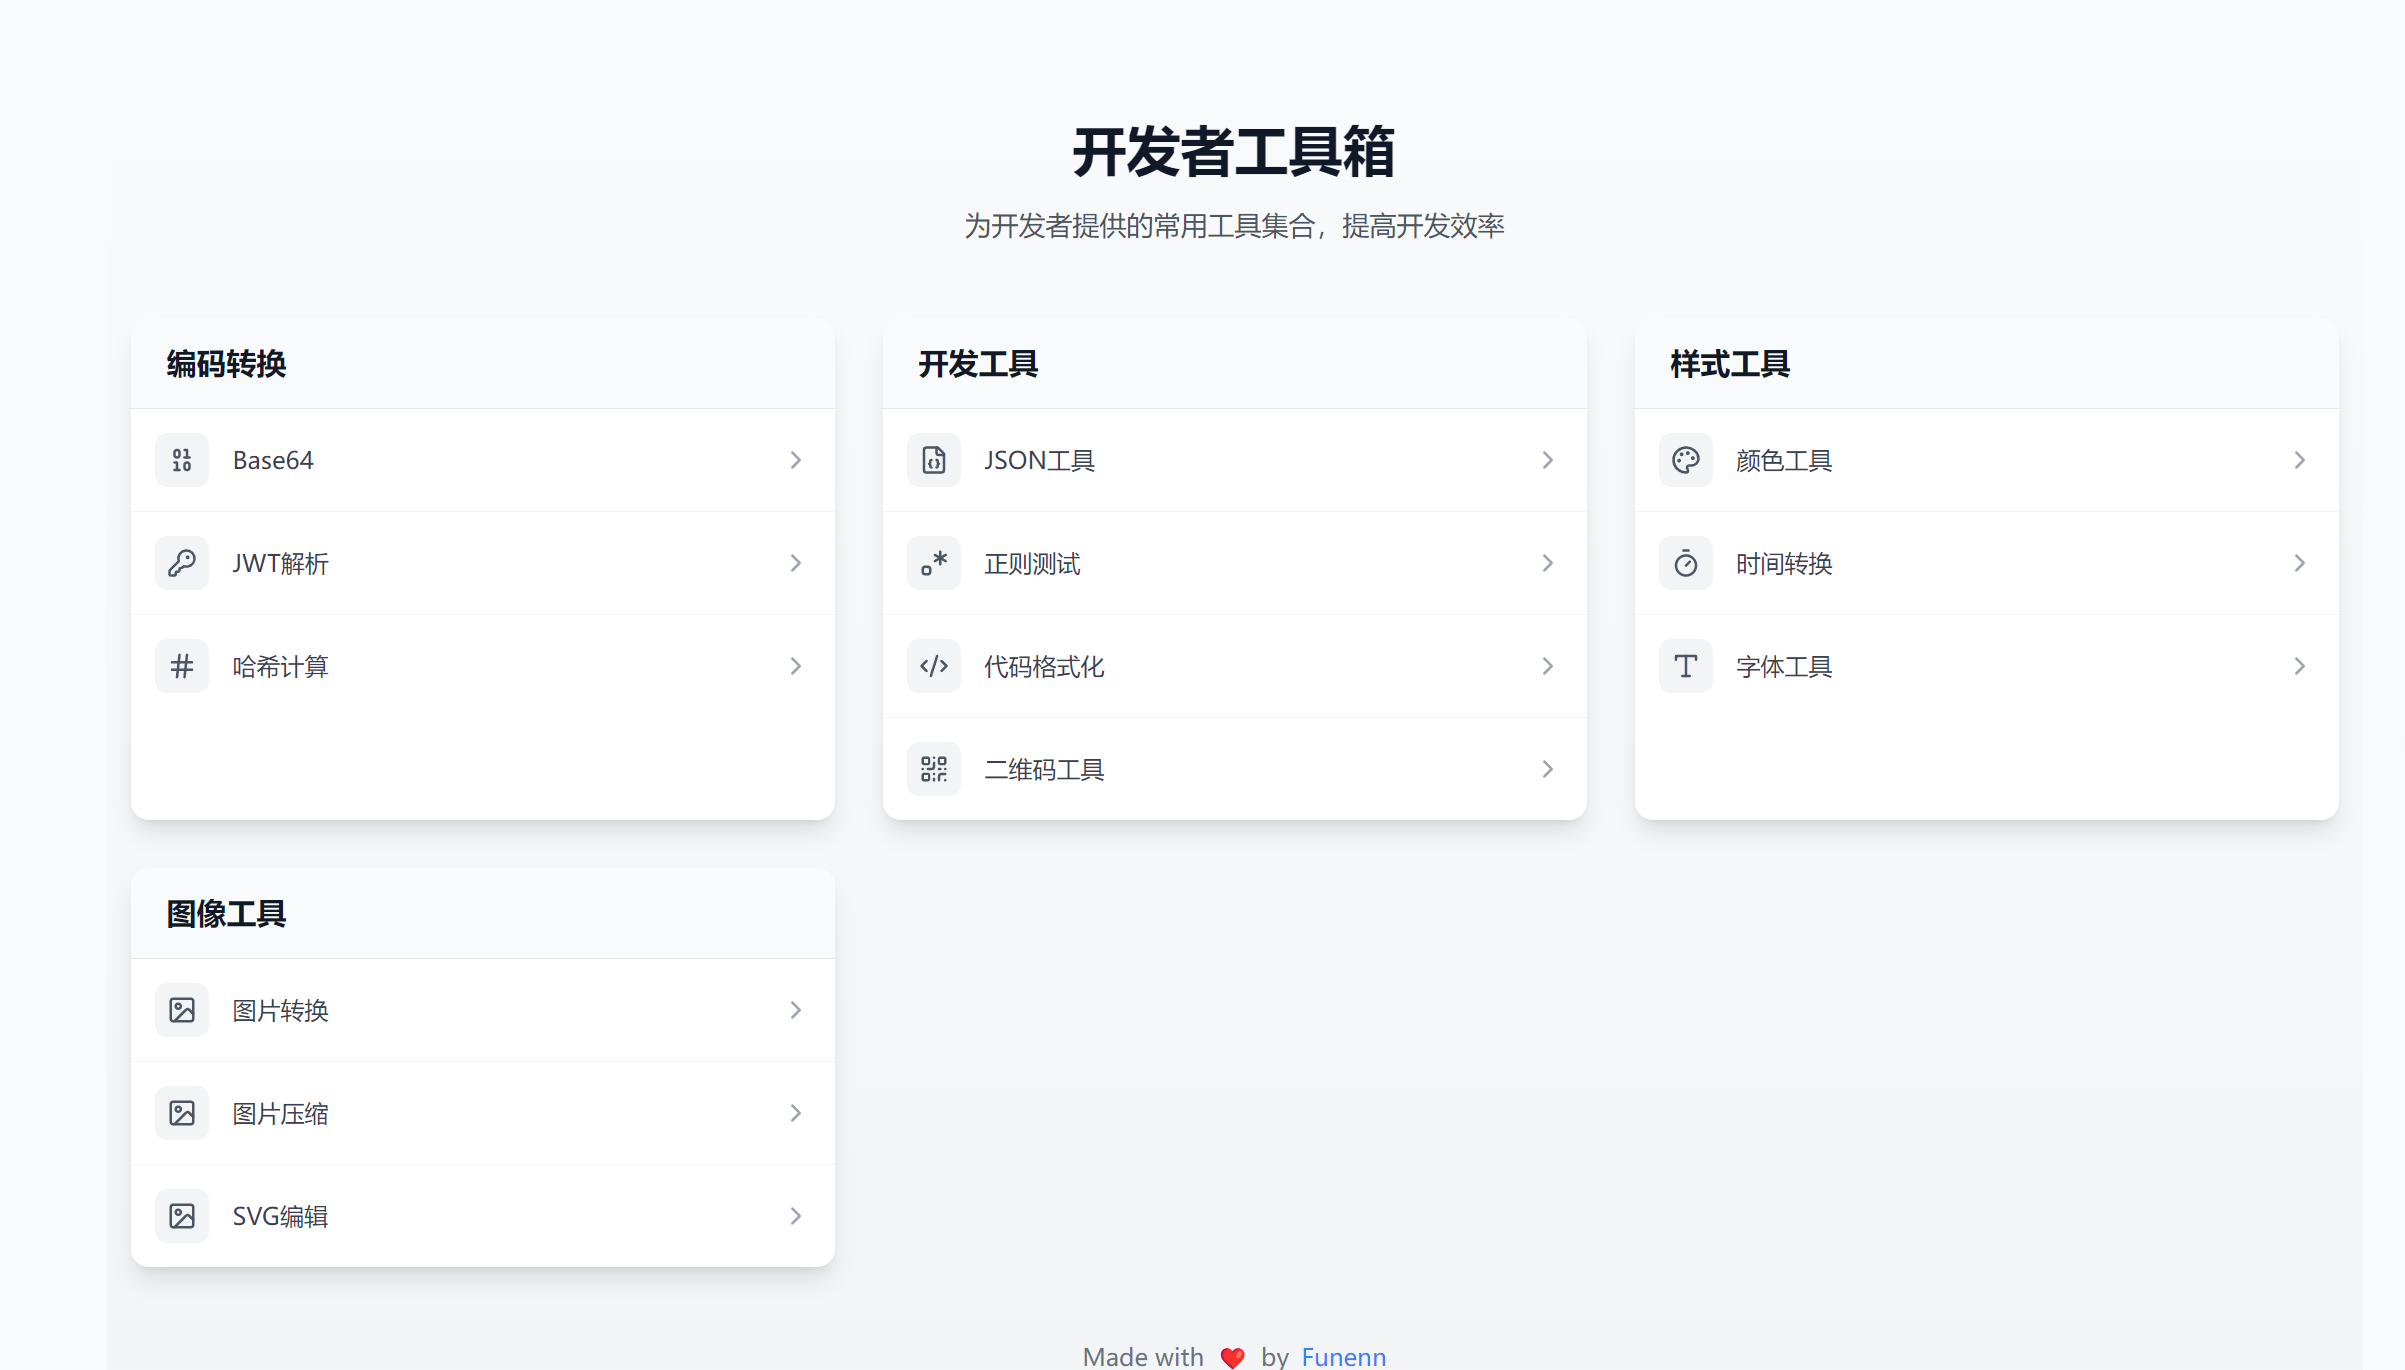
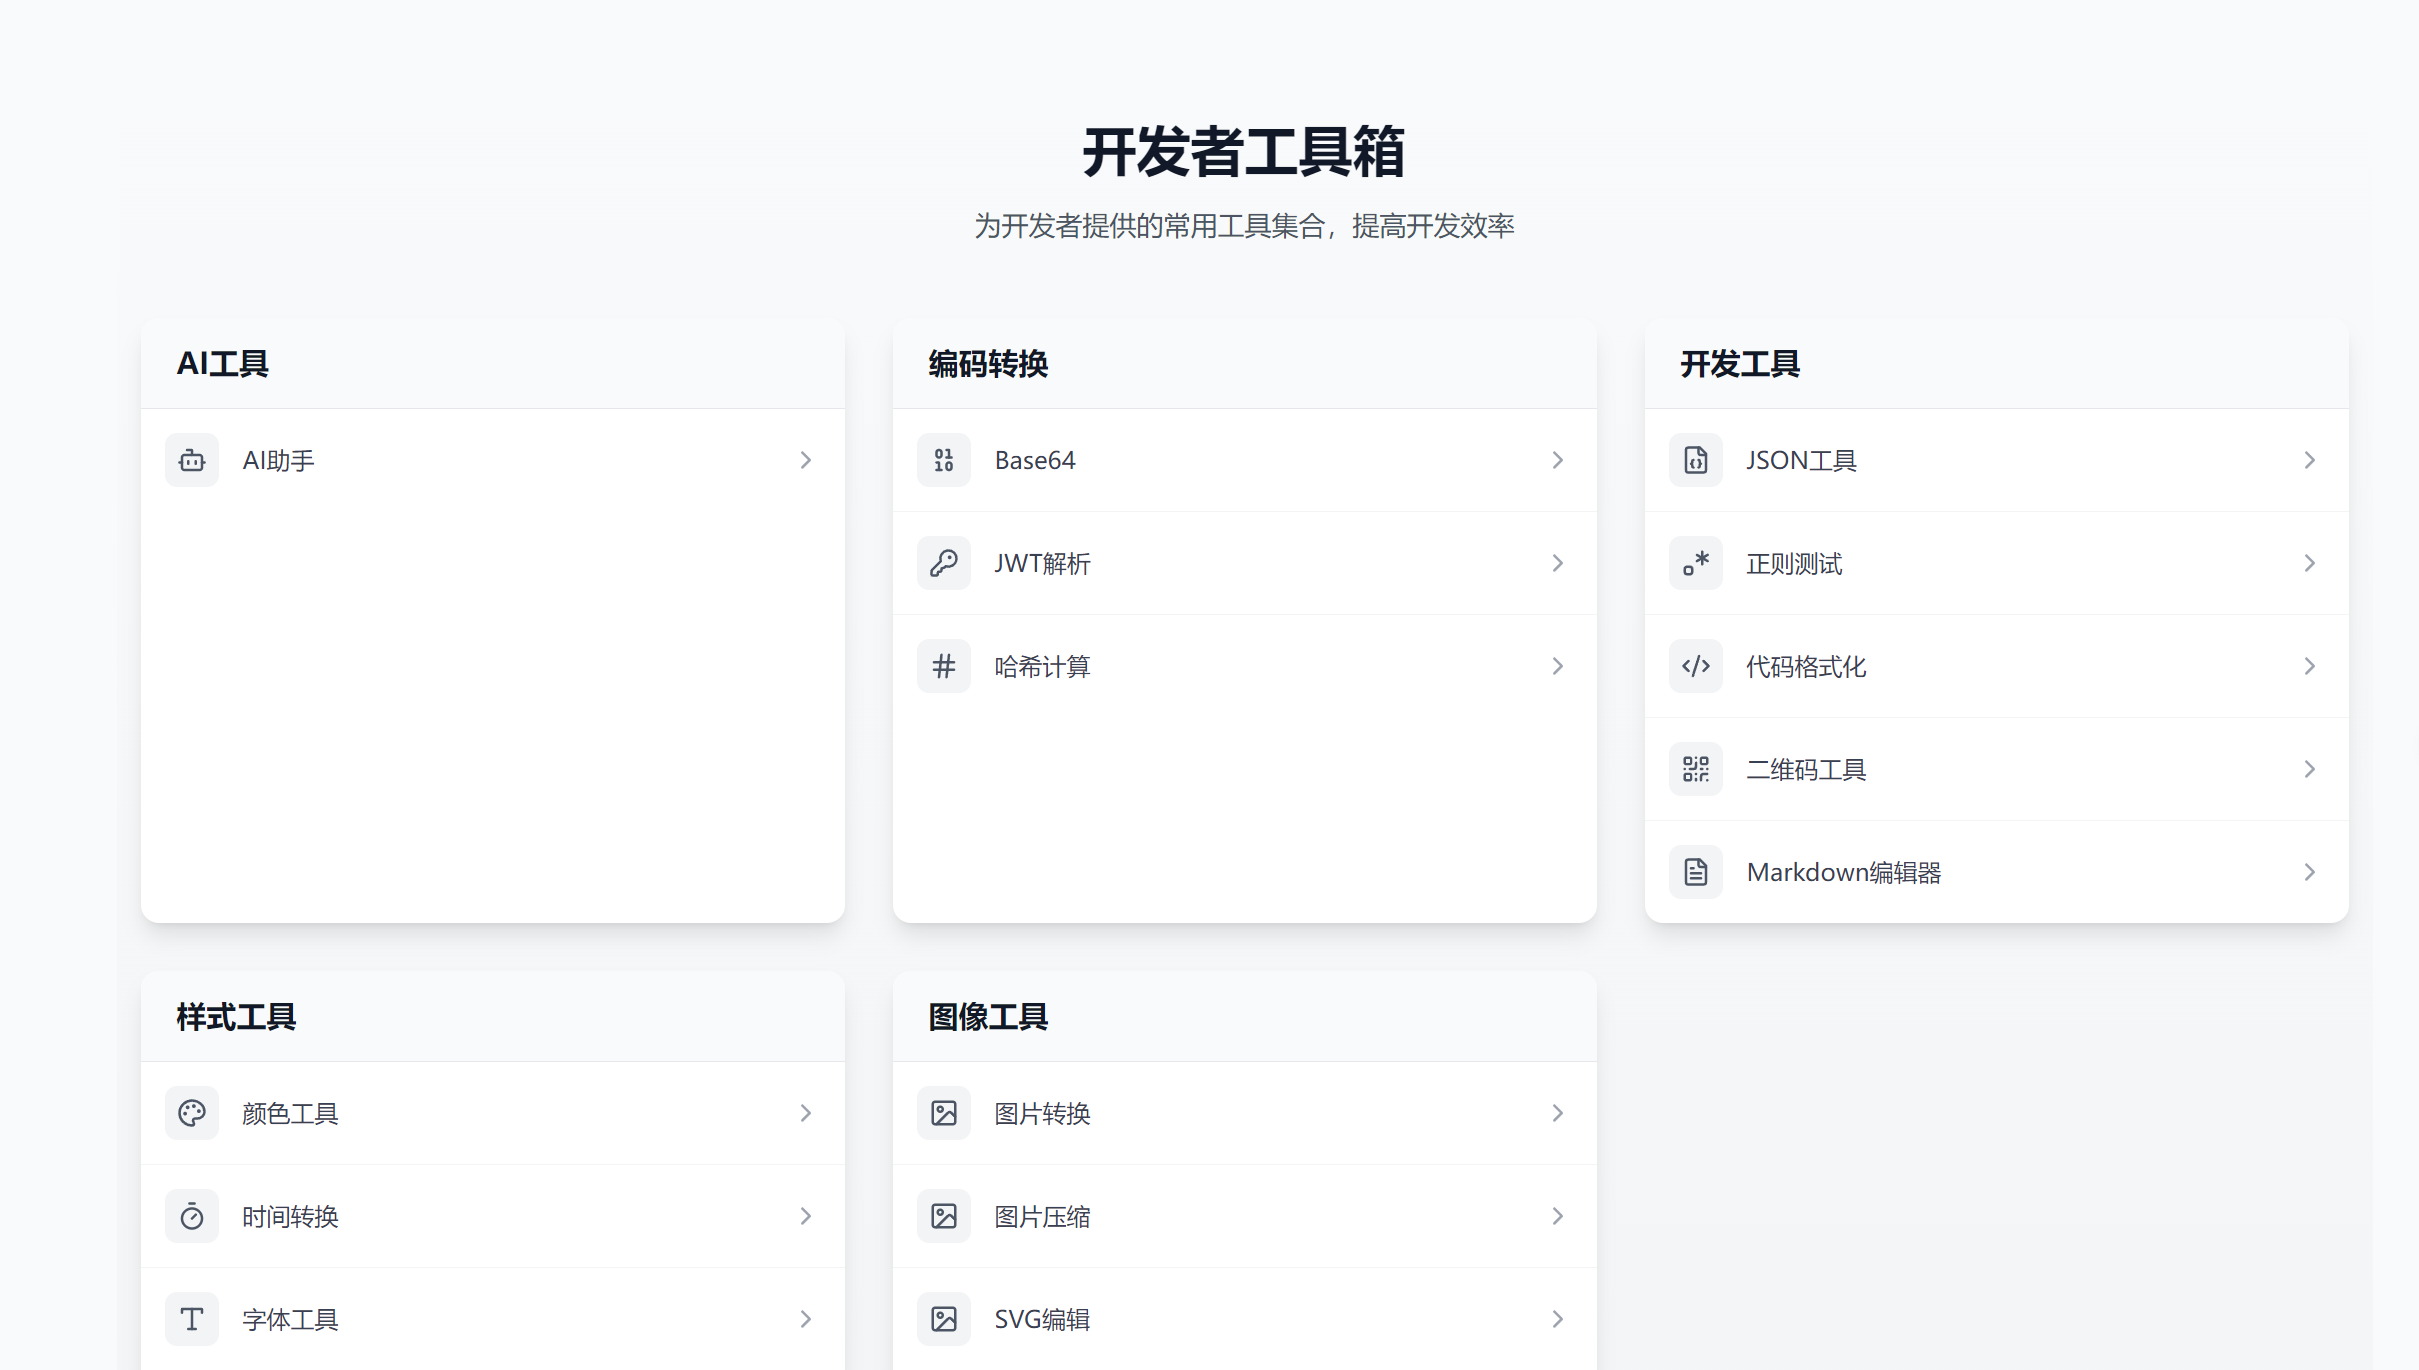
README.md更新

diff --git a/README.md b/README.md
@@ -1,10 +1,11 @@
 # DevTools 开发者工具箱
 
-一个集成了常用开发工具的在线工具箱，包括代码格式化、颜色选择器、正则测试等功能。
+一个集成了常用开发工具的在线工具箱，包括GPT 智能对话、代码格式化、颜色选择器、二维码生成/解析等功能。
 
-[在线体验](https://funenn.github.io/Developer-Tools)
+[在线体验](https://developer-tools-jet.vercel.app/)
 
 ![工具箱预览](./src/assets/image.png)
+![工具箱移动端预览](./src/assets/image1.png)
 ## 🚀 功能特性
 
 ### AI 助手
@@ -42,7 +43,7 @@
 ### 安装依赖
 
 ```bash
-npm install
+pnpm install
 ```
 
 ### 配置环境变量
@@ -54,15 +55,15 @@ VITE_OPENAI_API_KEY=your_api_key_here
 ### 启动开发服务器
 ```bash
 # 启动前端
-npm run dev
+pnpm run dev
 
 # 启动后端
-npm run dev:server
+pnpm run dev:server
 ```
 
 ### 构建项目
 ```bash
-npm run build
+pnpm run build
 ```
 
 ## 📝 开发说明
